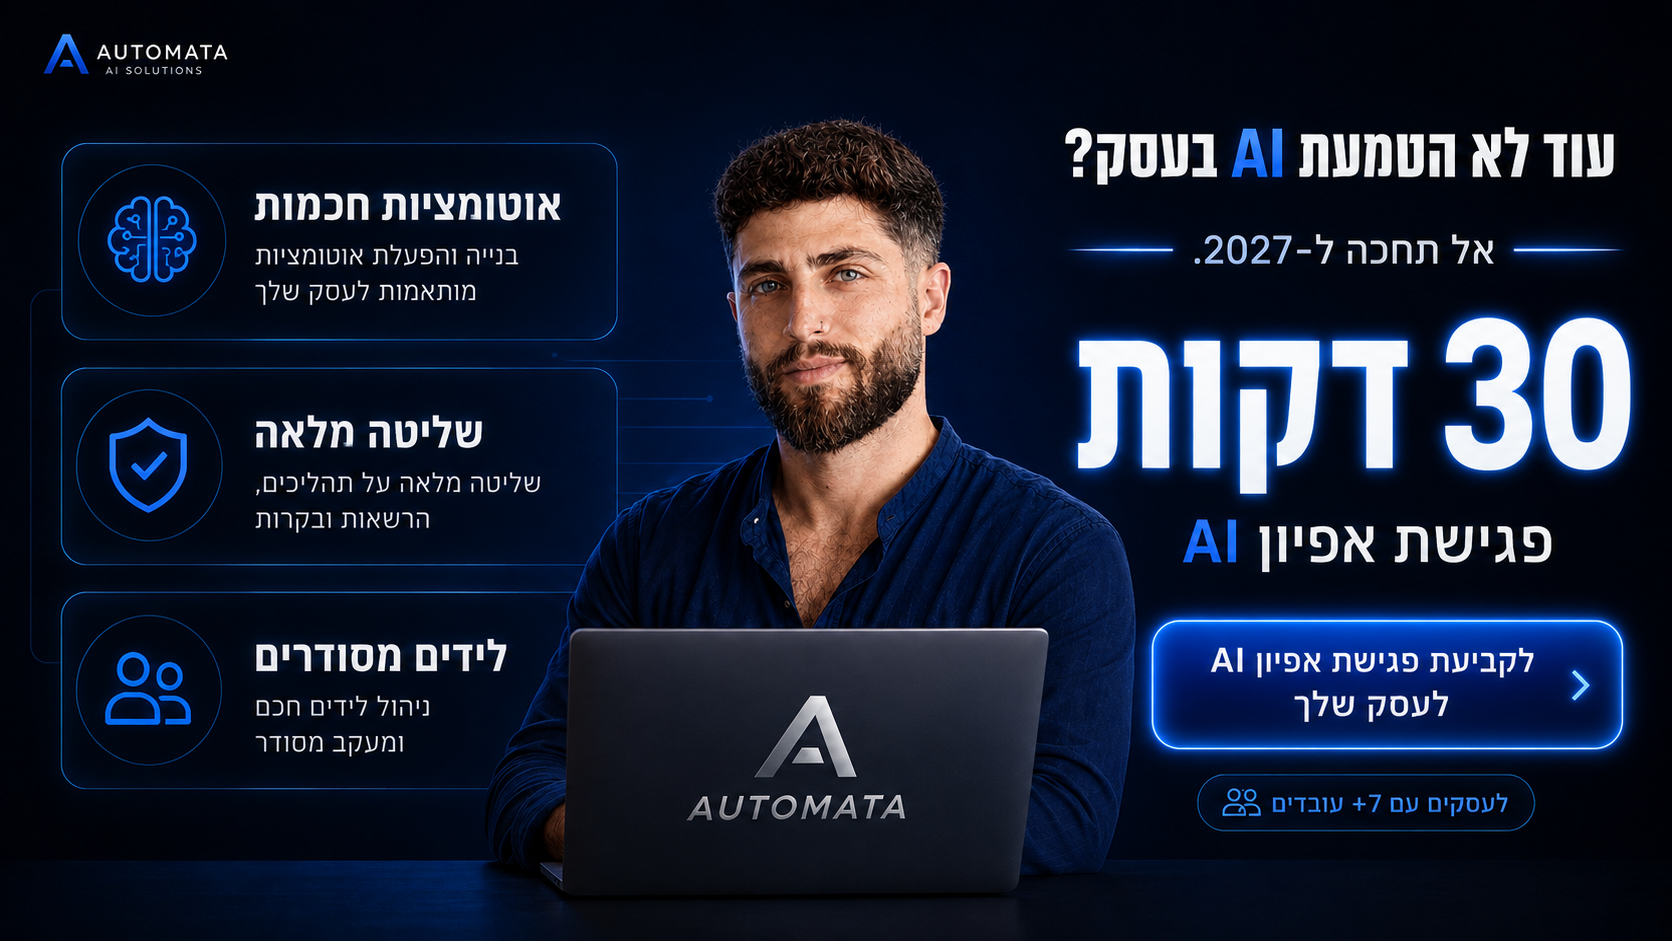
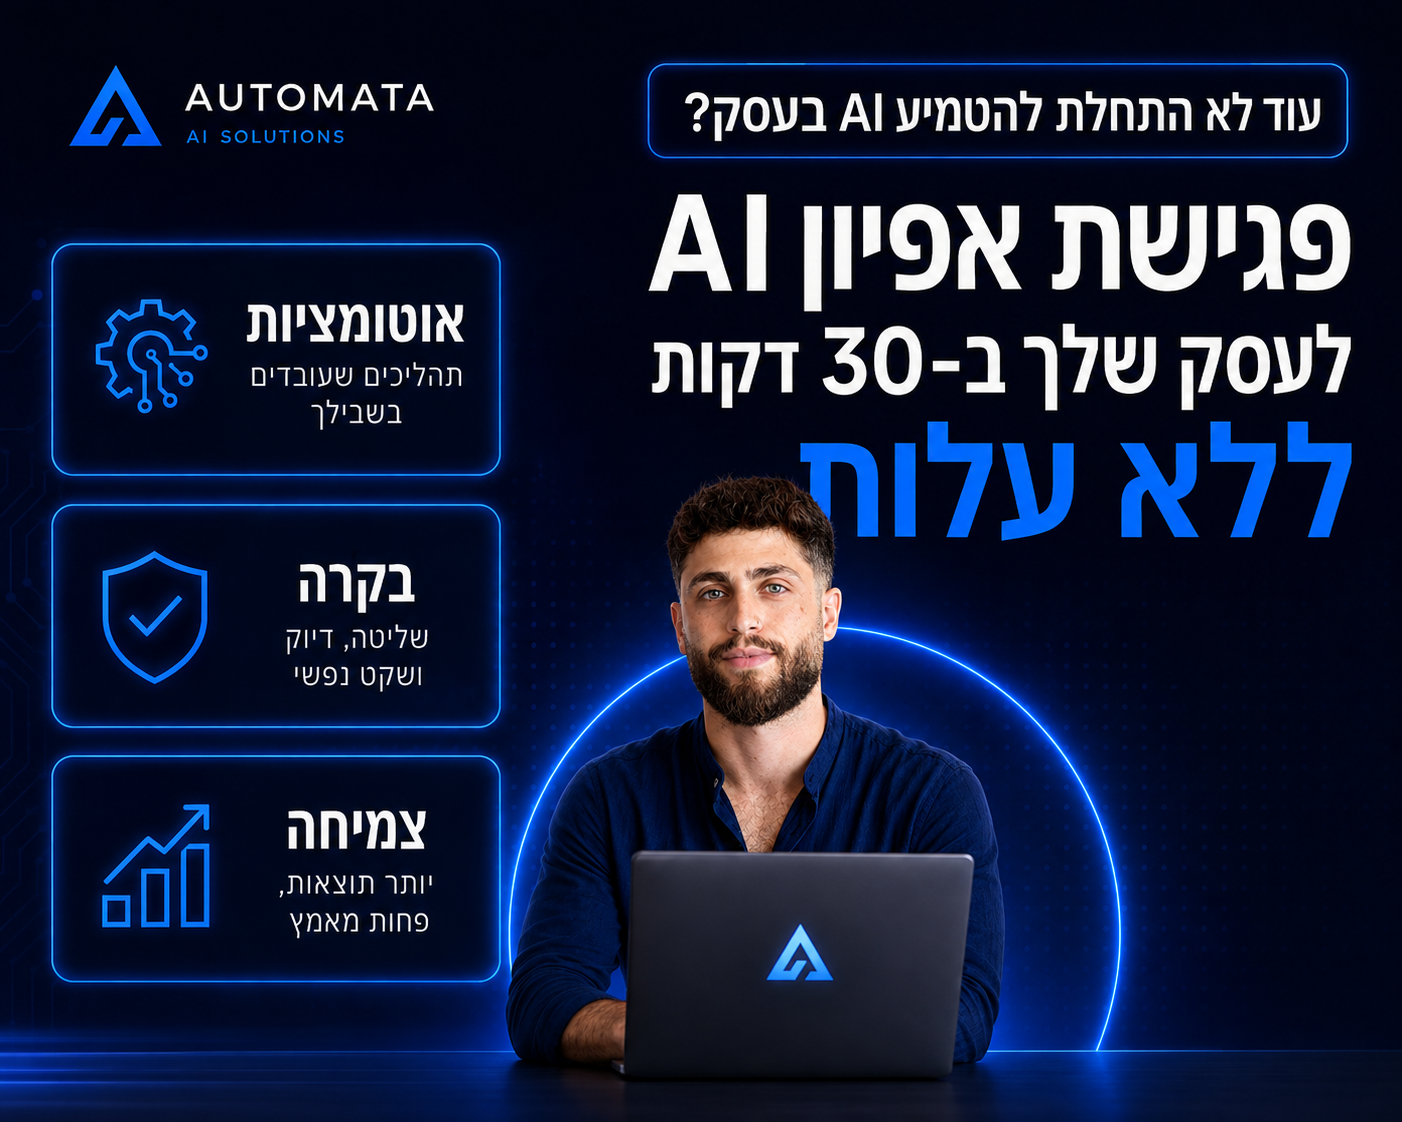
Swap hero creative to the AI mapping-session visual; regenerate OG (full creative, no crop)

diff --git a/components/MockupSlot.tsx b/components/MockupSlot.tsx
@@ -10,7 +10,7 @@ export default function MockupSlot() {
   return (
     <Image
       src={mockup}
-      alt="עידו ראם — פגישת אפיון AI של 30 דקות לעסק שלך | Automata"
+      alt="פגישת אפיון AI לעסק שלך ב-30 דקות, ללא עלות — אוטומציות, בקרה וצמיחה | Automata"
       priority
       placeholder="blur"
       sizes="(max-width: 900px) 92vw, 680px"
